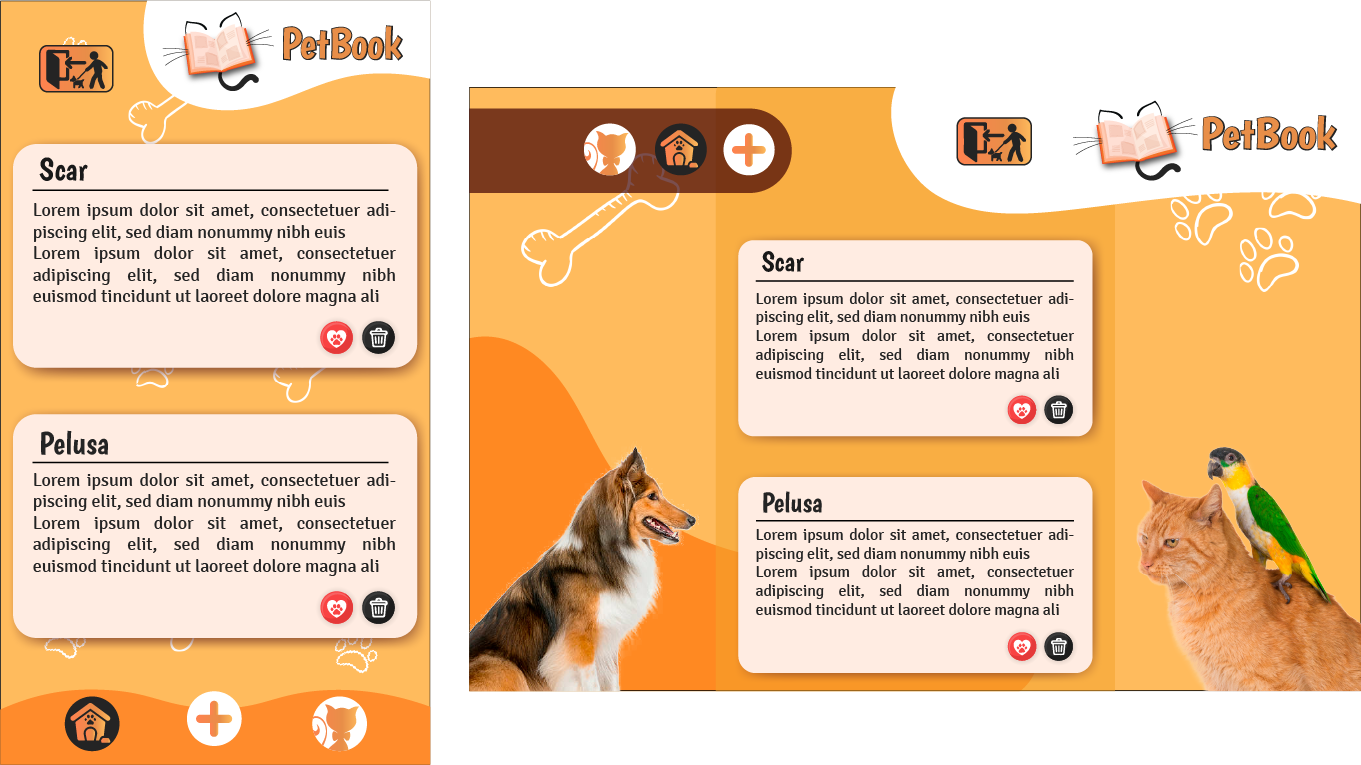
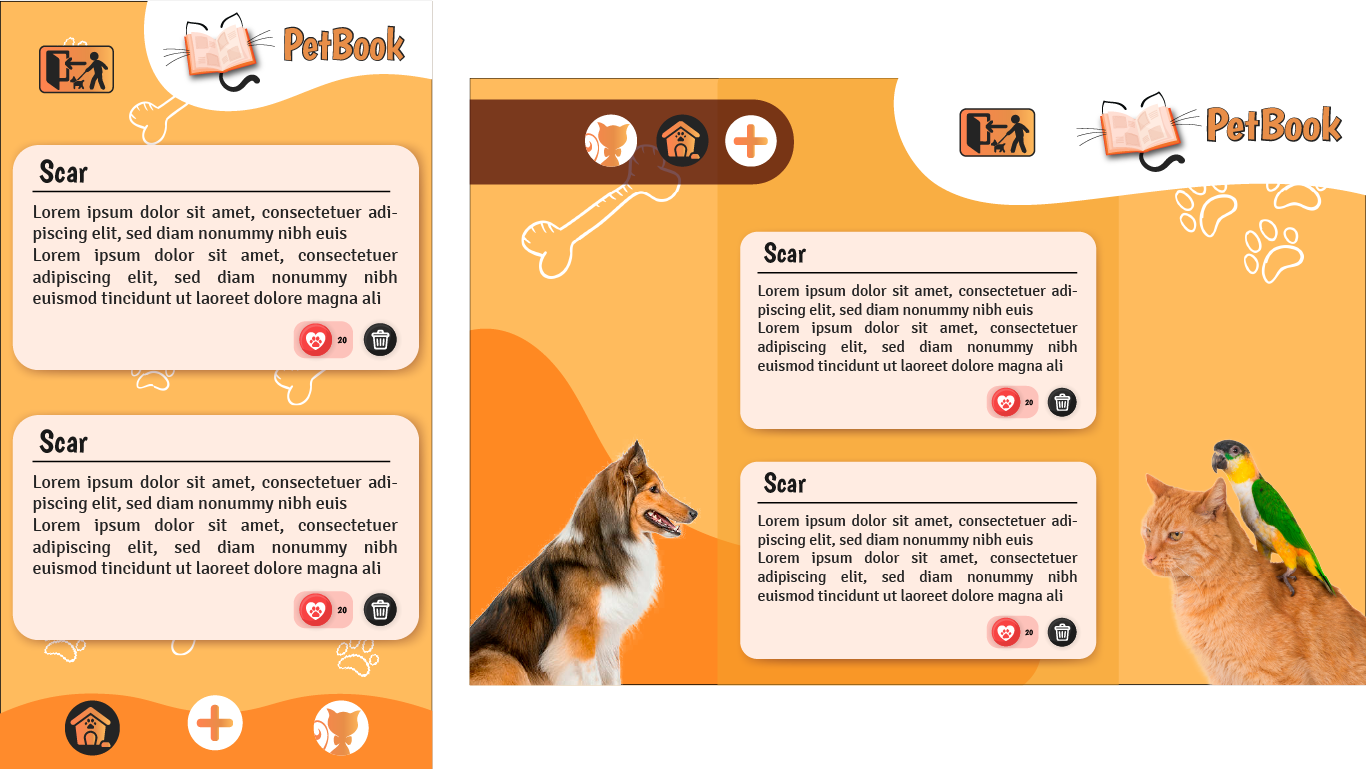
se corrige bug home-wall

diff --git a/src/lib/view/template-wall.js b/src/lib/view/template-wall.js
@@ -4,10 +4,8 @@ export const templateWall = () => {
   const wall = `
   <header id = "mobile-header">
     <button type="button" class = "btn-logout" id="btn-logout-mobile"><a href="#/"><img src="img/btnLogout.png" alt="logo" id="img-logout"></a></button>
-    <a href="" id = "a-logo"><img src="img/Logo.png" alt="logo" id="logo-w"></a>
+    <img src="img/Logo.png" alt="logo" id="logo-w">
   </header>
-
-
 
   <nav id = "mobile-nav">
     <ul>
@@ -18,7 +16,7 @@ export const templateWall = () => {
   </nav>
 
   <header id = "pc-header">
-    <a href="#/" id = "a-logo"><img src="img/Logo.png" alt="logo" id="logo-w"></a>
+    <img src="img/Logo.png" alt="logo" id="logo-w">
     <button type="button" class = "btn-logout" id="btn-logout-pc"><a href=""><img src="img/btnLogout.png" alt="logo" id="img-logout"></a></button>
 
     <nav id = "pc-nav">
@@ -29,12 +27,13 @@ export const templateWall = () => {
       </ul>
     </nav>
   </header>
+
   <h2 class = "v-log"></h2>
   `
 
-  const sectionW = document.createElement('section')
-  sectionW.id = 'w-container'
-  sectionW.innerHTML = wall
+  const divW = document.createElement('div')
+  divW.id = 'w-container'
+  divW.innerHTML = wall
 
   // ----------------------  TEMPORALES ------------------------------------
   firebase.auth().onAuthStateChanged((user) => {
@@ -45,33 +44,19 @@ export const templateWall = () => {
     }
   })
 
-  const btnLogoutMobile = sectionW.querySelector('#btn-logout-mobile')
+  const btnLogoutMobile = divW.querySelector('#btn-logout-mobile')
   btnLogoutMobile.addEventListener('click', () => {
-    document.querySelector('#p-container').innerHTML = ''
-    const initalSection = document.createElement('section')
-    initalSection.id = 'initial-container'
-    const sContainer = document.createElement('div')
-    sContainer.id = 's-container'
-    document.querySelector('#p-container').appendChild(initalSection)
-    document.querySelector('#initial-container').appendChild(sContainer)
-    // document.querySelector('#initial-container').style.display = 'block'
+    document.querySelector('#initial-container').style.display = 'block'
     logOut()
     location.hash = '#/'
   })
 
-  const btnLogoutPC = sectionW.querySelector('#btn-logout-pc')
+  const btnLogoutPC = divW.querySelector('#btn-logout-pc')
   btnLogoutPC.addEventListener('click', () => {
-    document.querySelector('#p-container').innerHTML = ''
-    const initalSection = document.createElement('section')
-    initalSection.id = 'initial-container'
-    const sContainer = document.createElement('div')
-    sContainer.id = 's-container'
-    document.querySelector('#p-container').appendChild(initalSection)
-    document.querySelector('#initial-container').appendChild(sContainer)
-    // document.querySelector('#initial-container').style.display = 'block'
+    document.querySelector('#initial-container').style.display = 'block'
     logOut()
     location.hash = '#/'
   })
   // ----------------------------------------------------------------------------
-  return sectionW
+  return divW
 }

diff --git a/src/lib/view/template-register.js b/src/lib/view/template-register.js
@@ -2,23 +2,27 @@ import { logOut, loginGoogle, register } from '../firebase/fireFunctions.js'
 
 export const templateRegister = () => {
   const registerT = `
-      <h2 class="background-title">Register</h2>
-      <input type="text" id = "user-name" class="input-register" placeholder="name">
-      <input type="email" class="input-register" placeholder="email">
-      <input type="email" class="input-register" placeholder="check email">
-      <input type="password" class="input-register" placeholder="password" id = "password">
-      <input type="password" class="input-register" placeholder="check password">
-      <p id="verification-email">Revisa tu correo para ingresar</p>
-      <p id="fire-error" class="error"></p>
-      <p id="error-p" class="error"></p>
-      <p id="rules">La contraseña debe tener entre 6 y 16 caracteres, al menos
-      un dígito, una minúscula y una mayúscula. Puede tener otros símbolos.</p>
-      <button type="button" id="btn-signup" class="btn-p"><a href="#/">Sign Up</a></button>
-      <button type="button" class="btn-p" id="btn-g">
-        <img src="img/logo_google.png" alt="" id="logo-google">
-        <a href="">Sign Up</a>
-      </button>
-      <button type="button" class="btn-s"> <a href="#/Login">login</a></button>`
+    <header>
+      <img src="img/MobileRabbit.png" alt="rabbit" id="img-rabbit">
+      <a href="#/"><img src="img/Logo.png" alt="logo" id="logo"></a>
+    </header>
+    <h2 class="background-title">Register</h2>
+    <input type="text" id = "user-name" class="input-register" placeholder="name">
+    <input type="email" class="input-register" placeholder="email">
+    <input type="email" class="input-register" placeholder="check email">
+    <input type="password" class="input-register" placeholder="password" id = "password">
+    <input type="password" class="input-register" placeholder="check password">
+    <p id="verification-email">Revisa tu correo para ingresar</p>
+    <p id="fire-error" class="error"></p>
+    <p id="error-p" class="error"></p>
+    <p id="rules">La contraseña debe tener entre 6 y 16 caracteres, al menos
+    un dígito, una minúscula y una mayúscula. Puede tener otros símbolos.</p>
+    <button type="button" id="btn-signup" class="btn-p"><a href="#/">Sign Up</a></button>
+    <button type="button" class="btn-p" id="btn-g">
+      <img src="img/logo_google.png" alt="" id="logo-google">
+      <a href="">Sign Up</a>
+    </button>
+    <button type="button" class="btn-s"> <a href="#/Login">login</a></button>`
 
   const divSection = document.createElement('div')
   divSection.id = 'c-container'
@@ -51,7 +55,7 @@ export const templateRegister = () => {
                 displayName: name
               }).then(() => {
                 const configuration = {
-                  url: 'http://localhost:5000/#/'
+                  url: 'https://liz-14.github.io/BOG003-social-network/src/#/'
                 }
                 userCredential.user.sendEmailVerification(configuration)
               })

diff --git a/src/lib/view/template-login.js b/src/lib/view/template-login.js
@@ -2,16 +2,20 @@ import { login, loginGoogle } from '../firebase/fireFunctions.js'
 
 export const templateLogin = () => {
   const loginT = `
-      <h2 class="background-title">Login</h2>
-      <input type="email" class="input-register" placeholder="email">
-      <input type="password" class="input-register" placeholder="password" id = "password">
-      <p id="fire-error" class="error"></p>
-      <button type="button" id="btn-signup" class="btn-p"><a href="">Sign In</a></button>
-      <button type="button" class="btn-p" id="btn-g">
-        <img src="img/logo_google.png" alt="" id="logo-google">
-        <a href="">Sign In</a>
-      </button>
-      <button type="button" class="btn-s"> <a href="#/Register">Register</a></button>`
+    <header>
+      <img src="img/MobileRabbit.png" alt="rabbit" id="img-rabbit">
+      <a href="#/"><img src="img/Logo.png" alt="logo" id="logo"></a>
+    </header>
+    <h2 class="background-title">Login</h2>
+    <input type="email" class="input-register" placeholder="email">
+    <input type="password" class="input-register" placeholder="password" id = "password">
+    <p id="fire-error" class="error"></p>
+    <button type="button" id="btn-signup" class="btn-p"><a href="">Sign In</a></button>
+    <button type="button" class="btn-p" id="btn-g">
+      <img src="img/logo_google.png" alt="" id="logo-google">
+      <a href="">Sign In</a>
+    </button>
+    <button type="button" class="btn-s"> <a href="#/Register">Register</a></button>`
 
   const divLogin = document.createElement('div')
   divLogin.id = 'c-container'

diff --git a/src/lib/router.js b/src/lib/router.js
@@ -6,25 +6,28 @@ import { templateWall } from './view/template-wall.js'
 // al recargar la pagina cambia el hash
 location.hash = '#/'
 const initialContainer = document.getElementById('initial-container')
-const sectionContainer = document.getElementById('s-container')
-sectionContainer.appendChild(templateHome())
+const wallContainer = document.getElementById('w-section')
+initialContainer.appendChild(templateHome())
 
 export const router = (hash) => {
-  sectionContainer.innerHTML = ''
+  initialContainer.innerHTML = ''
   switch (hash) {
     case '#/':
-      return sectionContainer.appendChild(templateHome())
+      wallContainer.innerHTML = ''
+      wallContainer.style.display = 'none'
+      initialContainer.appendChild(templateHome())
+      break
 
     case '#/Login':
-      return sectionContainer.appendChild(templateLogin())
+      return initialContainer.appendChild(templateLogin())
 
     case '#/Register':
-      return sectionContainer.appendChild(templateRegister())
+      return initialContainer.appendChild(templateRegister())
 
     case '#/Wall':
-      // initialContainer.style.display = 'none'
-      document.getElementById('p-container').innerHTML = ''
-      document.getElementById('p-container').appendChild(templateWall())
+      document.querySelector('#w-section').style.display = 'block'
+      initialContainer.style.display = 'none'
+      wallContainer.appendChild(templateWall())
       break
 
     default:

diff --git a/src/laptop-PC.css b/src/laptop-PC.css
@@ -2,6 +2,7 @@
 @media(min-width:414px){
   main{
     background-image: url(./img/backgroundPC1.png);
+    padding-bottom: 1.6%
   }
 
   #initial-container{
@@ -50,7 +51,6 @@ h2{
     background-image: url(./img/backPC.png);
     background-attachment: fixed;
     background-position: center;
-    background-repeat: no-repeat;
     background-size: cover;
     display: flex;
     flex-direction: row-reverse;
@@ -58,6 +58,8 @@ h2{
     align-items: center;
     padding-top: 1%;
     padding-bottom: 2.5%;
+    position: fixed;
+    width: 100vw;
   }
 
   #pc-nav{
@@ -70,13 +72,10 @@ h2{
     max-width: 38vw;
   }
 
-  #a-logo{
-    margin: 0;
-    margin-right: 2%;
-  }
-
   #logo-w{
-    width: 30vw;
+    margin-right: 5%;
+    margin-top: 1%;
+    width: 28vw;
   }
 
   .btn-logout{
@@ -119,6 +118,10 @@ h2{
 /* ---------- PC 1920 x 1080 ---------- */
 
 @media(min-width:1600px){
+  main{
+    padding-bottom: 0.7%
+  }
+
   #initial-container{
     margin: 10.5% 0%;
   }
@@ -140,11 +143,9 @@ h2{
   }
 
   #logo-w{
-    width: 25vw;
-  }
-
-  #a-logo{
-    margin-right: 7%;
+    margin-top: 0.8%;
+    margin-right: 8%;
+    width: 22vw;
   }
 
   #img-logout{

diff --git a/src/style.css b/src/style.css
@@ -26,7 +26,7 @@ main{
   background-position: center;
   background-repeat: no-repeat;
   background-size: cover;
-  width: 100%;
+  width: 100vw;
 }
 
 #initial-container{
@@ -163,20 +163,23 @@ a {
     background-color:rgba(76, 175, 80, 0.8);
 }
 
+#w-section{
+  display: none;
+  width: 100vw;
+}
+
 #w-container{
   background-image: url(./img/backWall.png);
   background-attachment: fixed;
-  background-position: center;
-  background-repeat: no-repeat;
   background-size: cover;
-  width: 100%;
+  width: 100vw;
   min-height: 100vh;
   position: relative;
 }
 
 #mobile-header{
   padding-bottom: 1%;
-  width: 100%;
+  width: 100vw;
   position: fixed;
   display: flex;
   justify-content: space-between;
@@ -187,14 +190,11 @@ a {
   background-size: cover;
 }
 
-#a-logo{
-
-  margin-right: 5%;
-}
-
 #logo-w{
   width: 60vw;
-  padding: 5%;
+  padding-bottom: 3%;
+  margin-top: 2%;
+  margin-right: 3%;
 }
 
 .btn-logout{
@@ -282,6 +282,7 @@ a {
 
 /*---BORRAR------*/
 .v-log{
+  position: fixed;
   margin-top: 30%;
   text-align: center;
 }

diff --git a/src/lib/view/template-home.js b/src/lib/view/template-home.js
@@ -1,9 +1,13 @@
 export const templateHome = () => {
   const home = `
+  <header>
+    <img src="img/MobileRabbit.png" alt="rabbit" id="img-rabbit">
+    <a href="#/"><img src="img/Logo.png" alt="logo" id="logo"></a>
+  </header>
   <h2>WELCOME</h2>
   <button type="button" class="btn-p"> <a href="#/Login">Login</a></button>
   <button type="button" class="btn-p"> <a href="#/Register">Register</a></button>
-  <button type="button" class="btn-p"> <a href="#/Wall">Wall</a></button>`
+  `
 
   const divHome = document.createElement('div')
   divHome.id = 'c-container'

diff --git a/src/index.html b/src/index.html
@@ -16,13 +16,11 @@
 <body>
   <main id="p-container">
     <section id = "initial-container">
-      <header>
-        <img src="img/MobileRabbit.png" alt="rabbit" id="img-rabbit">
-        <a href="#/"><img src="img/Logo.png" alt="logo" id="logo"></a>
-      </header>
-      <div id="s-container">
 
-      </div>
+    </section>
+
+    <section id = "w-section">
+
     </section>
   </main>
   <script type="module" src="main.js"></script>

diff --git a/src/lib/firebase/fireFunctions.js b/src/lib/firebase/fireFunctions.js
@@ -13,11 +13,5 @@ export const login = (email, password) => {
 }
 
 export const logOut = () => {
-  firebase.auth().signOut()
-    .then(() => {
-      console.log('salir')
-    })
-    .catch((error) => {
-      console.error(error)
-    })
+  return firebase.auth().signOut()
 }
